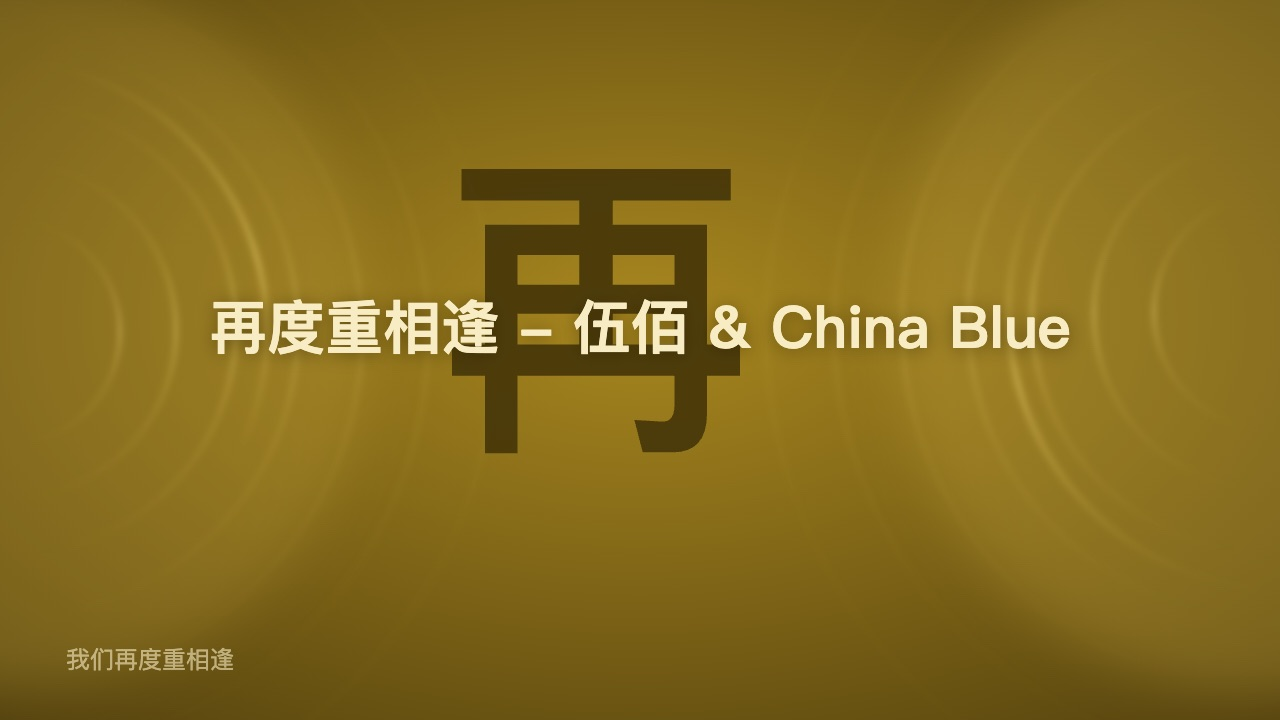
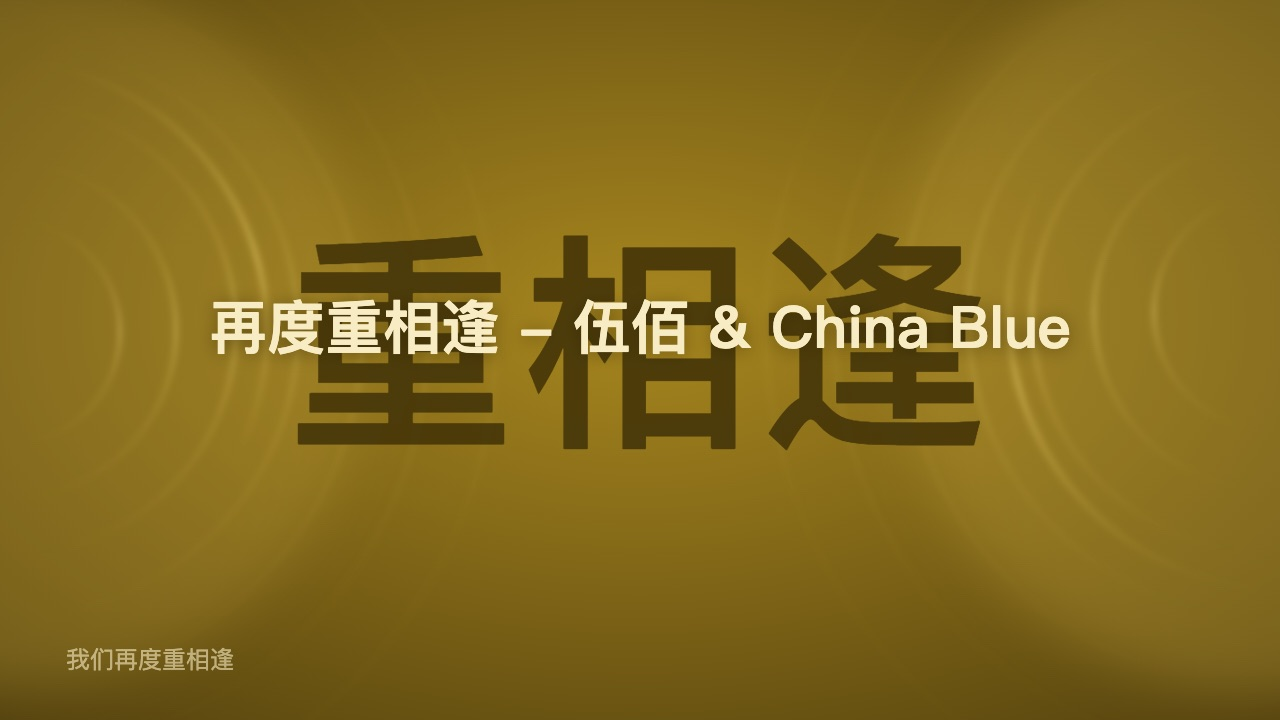
1.2.0: 声波式放大缩小波纹 + 歌词/水印同点居中 + 随机2-4连贯字水印

Changed region(s): [[0.2188, 0.2139, 0.7812, 0.6417]]

diff --git a/README.md b/README.md
@@ -13,9 +13,9 @@
 ## 功能
 
 - **封面取色**：自动提取当前歌曲封面的主色（24×24 降采样加权提取，本机完成，不联网），背景暗色水波、波纹、歌词颜色全部由它派生；切歌自动换色。无封面 / 封面不可读时回退主题强调色。
-- **左右双波纹**：两组同心圆波纹分居屏幕左右边缘（圆心探出屏外），逐环缓慢呼吸、明暗起伏，并有几道亮弧缓缓旋转；canvas 加法混合绘制，暂停时依然流动（参考原效果）。
-- **居中大歌词**：当前句歌词居中放大（约为页高的 8.5%，可调），间奏期无歌词时显示「歌名 - 歌手」。
-- **关键字水印**：自动取当前句的一个关键字——中文取首个汉字、日文取首段假名、外语取首个单词——以超大深色字号浮在歌词背后，换行时淡入。
+- **左右双声波**：两组同心圆波纹分居屏幕左右边缘（圆心探出屏外），像喇叭声波一样逐环放大、缩小，亮度和扩张的波峰由内向外推进，并有几道亮弧缓缓旋转；canvas 加法混合绘制，暂停时依然流动（参考原效果）。
+- **居中大歌词**：当前句歌词与水印共用同一中心点，居中放大（约为页高的 8.5%，可调），间奏期无歌词时显示「歌名 - 歌手」。
+- **关键字水印**：随机取当前句中 **2–4 个连贯字**（中文/日文按字、外语取一个单词）——不是固定首字，每句随机、位置长度随句变化但句内保持稳定——以超大深色字号浮在歌词背后，与歌词同点心，换行时淡入，字数多时自动缩小。
 - **翻译在底部**：外语歌的翻译固定在左下角小字显示（不居中），当前句没有翻译时自动隐藏。
 - **主题联动**：字体栈、字重取自当前主题。
 
@@ -27,8 +27,8 @@
 | --- | --- |
 | 波光配色 | 跟随封面主色（默认）/ 主题色 |
 | 波光亮度 | 波纹与光晕的整体强度（默认 1，可 0.3–2） |
-| 流动速度 | 波纹移动的快慢（默认 1，可 0.2–3） |
-| 关键字水印 | 歌词背后的超大关键字（默认开） |
+| 流动速度 | 波纹放大缩小、旋转的快慢（默认 1，可 0.2–3） |
+| 关键字水印 | 歌词背后的超大水印，随机 2–4 个连贯字（默认开） |
 | 歌词字号 | 叠加在主题字号与用户歌词字号之上 |
 
 ## 安装
@@ -44,7 +44,8 @@
 ## 实现说明
 
 - 通过公开注册表 `folium.registries.visualizers` 注册一个动画模式，`hostLayers: { background: false, subtitles: false }`——整个页面（背景 + 歌词）由模组自绘，宿主不再铺自己的背景层。
-- 背景 = 封面主色派生的径向暗色渐变（DOM）；双波纹 = 单个 canvas，requestAnimationFrame 每帧绘制两组同心圆（亮度沿竖直方向成带状渐变，模拟水面光带）+ 旋转亮弧（加法混合，DPR 上限 1.75，开销很低）；歌词 / 关键字水印 / 翻译 = DOM 文本，走主题字体。
+- 背景 = 封面主色派生的径向暗色渐变（DOM）；双声波 = 单个 canvas，requestAnimationFrame 每帧绘制两组同心圆（半径逐环放大缩小的行波 + 由内向外推进的发光「声波脉冲」环，亮度沿竖直方向成带状渐变）+ 旋转亮弧（加法混合，DPR 上限 1.75，开销很低）；歌词 / 关键字水印 / 翻译 = DOM 文本，走主题字体。
+- 关键字水印的随机选取以整句文本做 FNV-1a 哈希播种，同一句稳定、不同句各异；先剔除标点空格再截取，保证连贯。
 - 主色提取与「黑胶唱片」模组同源：24×24 降采样、按饱和度 × 中间调加权，跨域污染时静默回退，按封面 URL 缓存。
 - 不声明任何权限；不碰宿主 DOM、不注入全局样式、不联网。
 
@@ -58,6 +59,7 @@
 
 ## 更新日志
 
+- **1.2.0**：按反馈调整——波纹改为喇叭声波式「放大缩小」（行波逐环推进 + 由内向外扩张消散的声波脉冲环）；歌词改为与水印同一锚点绝对居中（此前仅水印居中）；关键字水印不再固定取首字，改为每句随机取 2–4 个连贯字（外语取随机单词），按句哈希保持句内稳定，多字时自动缩小防溢出。
 - **1.1.0**：按 QQ 音乐参考重构——背景改为左右两组会动的同心圆波纹（原为横向光带）；歌词居中放大、去掉曲名/歌手小标题与下一句预览，间奏期显示「歌名 - 歌手」；新增歌词背后的超大关键字水印（可关）；翻译改为固定左下角显示（原为歌词下方居中）。
 - **1.0.0**：首个版本。
 
